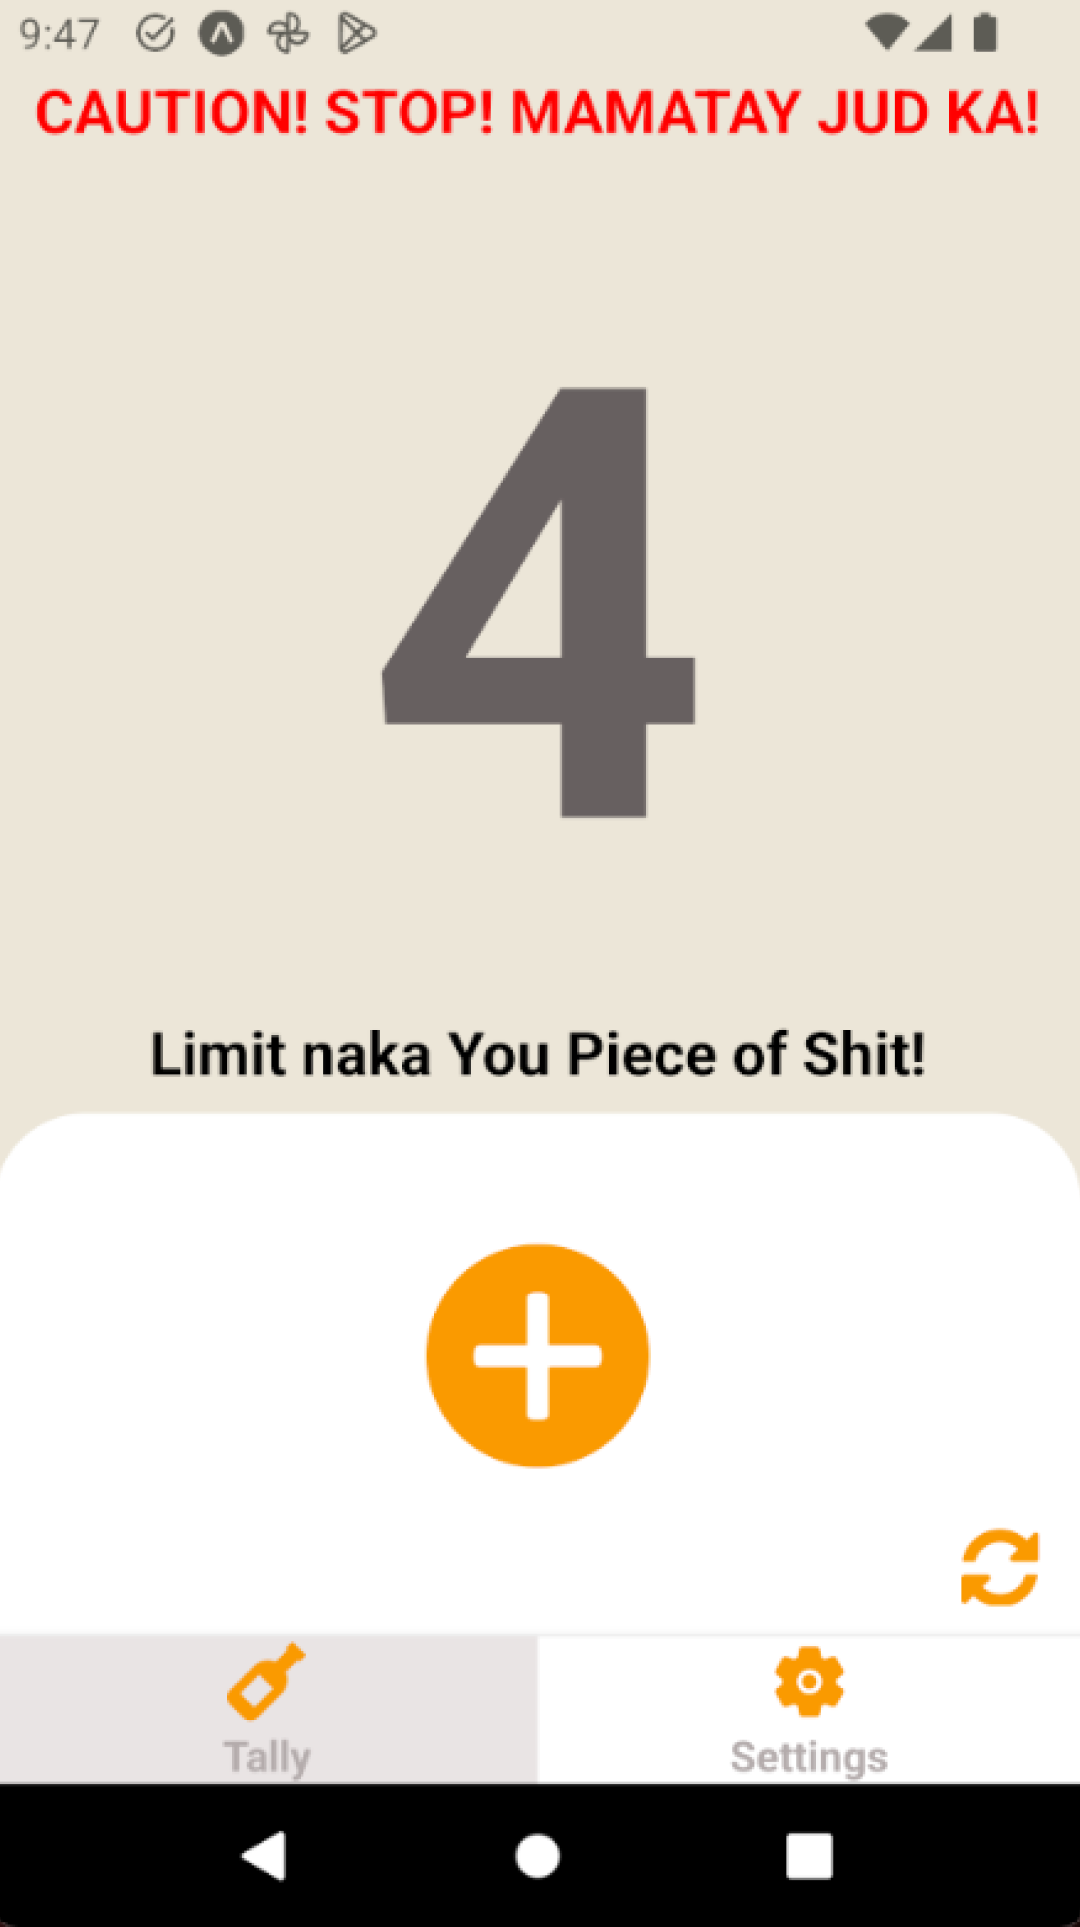
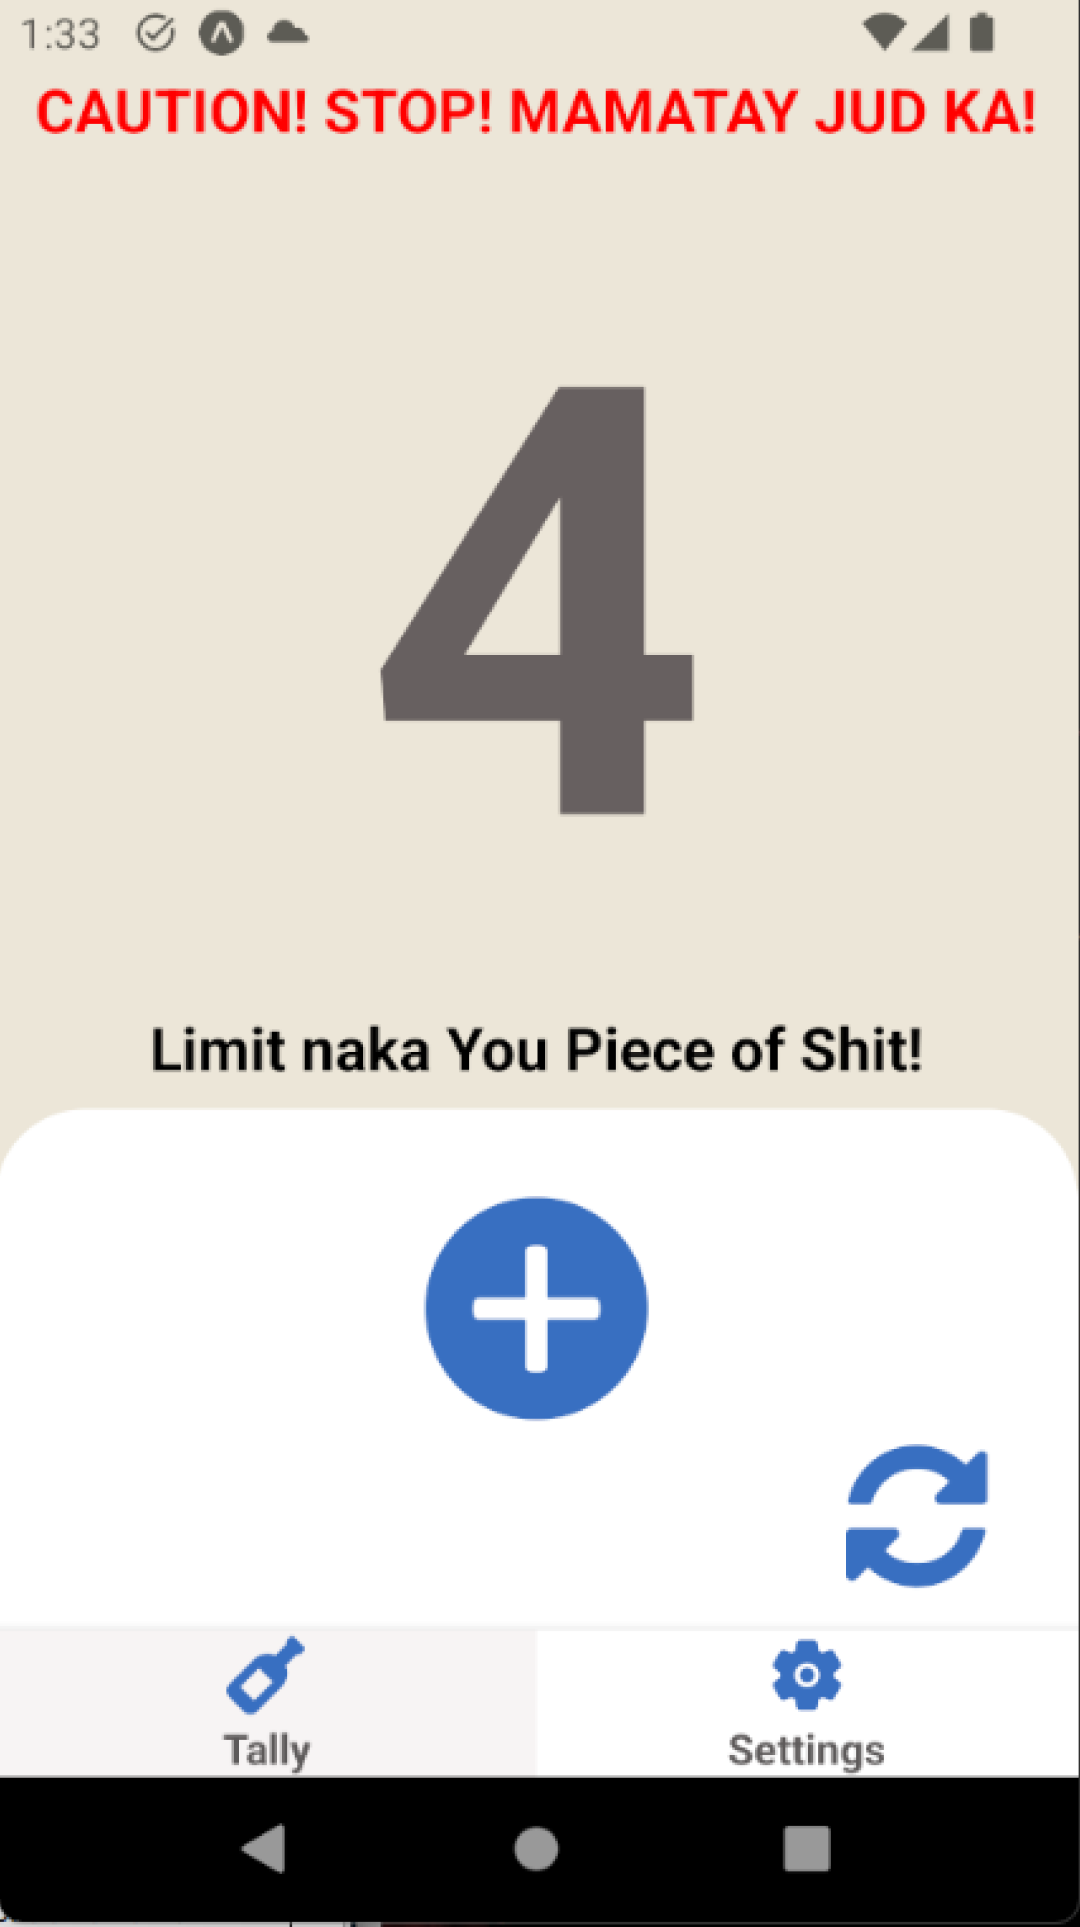
main: update theme to blue

diff --git a/App/screens/SettingsScreen.js b/App/screens/SettingsScreen.js
@@ -71,9 +71,11 @@ const SettingsScreen = () => {
             <View style={styles.inputFieldWrapper}>
               <TextInput
                 style={styles.textInputWrapper}
-                placeholder="Edit Limit Value"
+                // placeholder="Edit Limit Value"
+                placeholderTextColor="#757575"
                 value={limitValueII}
                 onChangeText={setLimitValueII}
+                keyboardType="numeric"
               ></TextInput>
             </View>
           )}
@@ -85,7 +87,7 @@ const SettingsScreen = () => {
                 style={styles.buttonWrapper}
                 onPress={onPressEditLimitValue}
               >
-                <Text style={{ fontWeight: "bold", fontSize: 18 }}>Edit</Text>
+                <Text style={styles.buttonTextWrapper}>Edit</Text>
               </TouchableOpacity>
             )}
             <View style={{ flexDirection: "row" }}>
@@ -95,7 +97,7 @@ const SettingsScreen = () => {
                   style={styles.buttonWrapper}
                   onPress={onPressSaveLimitValue}
                 >
-                  <Text style={{ fontWeight: "bold", fontSize: 18 }}>Save</Text>
+                  <Text style={styles.buttonTextWrapper}>Save</Text>
                 </TouchableOpacity>
               )}
               {/* Cancel Button */}
@@ -106,9 +108,7 @@ const SettingsScreen = () => {
                     setEditBtnPress(false);
                   }}
                 >
-                  <Text style={{ fontWeight: "bold", fontSize: 18 }}>
-                    Cancel
-                  </Text>
+                  <Text style={styles.buttonTextWrapper}>Cancel</Text>
                 </TouchableOpacity>
               )}
             </View>

diff --git a/App/stylesheets/SettingsScreen.style.js b/App/stylesheets/SettingsScreen.style.js
@@ -52,7 +52,7 @@ const styles = StyleSheet.create({
     borderWidth: 4,
     borderColor: Colors.gray_2,
     width: 280,
-    height: 40,
+    height: 60,
     justifyContent: "center",
     marginBottom: 18,
     marginTop: 20,
@@ -61,7 +61,7 @@ const styles = StyleSheet.create({
   },
   textInputWrapper: {
     color: Colors.textInput,
-    fontSize: 15,
+    fontSize: 30,
     paddingLeft: 15,
   },
 
@@ -74,11 +74,17 @@ const styles = StyleSheet.create({
     borderRadius: 20,
     backgroundColor: Colors.orange,
     width: 110,
-    height: 43,
+    height: 48,
     marginRight: 12,
     marginBottom: 7,
     justifyContent: "center",
     alignItems: "center",
+  },
+
+  buttonTextWrapper: {
+    fontWeight: "bold",
+    fontSize: 18,
+    color: Colors.buttonText,
   },
 
   footerPanelWrapper: {

diff --git a/App/constants/Color.js b/App/constants/Color.js
@@ -1,11 +1,12 @@
 const Colors = {
   background: "#ECE6D8",
   countdownText: "#686060",
-  gray: "#E9E4E4",
-  gray_2: "#B4ACAC",
+  gray: "#f7f4f4", // old: #E9E4E4
+  gray_2: "#5E5A5A", // old: #B4ACAC
   gray_3: "#EEECEC",
-  orange: "#FA9A0B",
-  footer: "#858080",
+  orange: "#376fc1",
+  footer: "#5E5A5A", // old: #858080
+  buttonText: "#f7f4f4",
 };
 
 export default Colors;

diff --git a/App/stylesheets/TallyScreen.style.js b/App/stylesheets/TallyScreen.style.js
@@ -75,11 +75,11 @@ const styles = StyleSheet.create({
     backgroundColor: Colors.orange,
   },
   lowerScreenlowerWrapper: {
-    flex: 1,
-    // backgroundColor: "blue",
+    // flex: 1,
+    // backgroundColor: "red",
     justifyContent: "center",
     alignItems: "flex-end",
-    paddingRight: 14,
+    paddingRight: 30,
     paddingBottom: 10,
   },
 

diff --git a/App/screens/TallyScreen.js b/App/screens/TallyScreen.js
@@ -176,7 +176,7 @@ const TallyScreen = () => {
             <Icon
               name="refresh"
               type="font-awesome"
-              size={30}
+              size={55}
               color={Colors.orange}
             />
           </TouchableOpacity>
